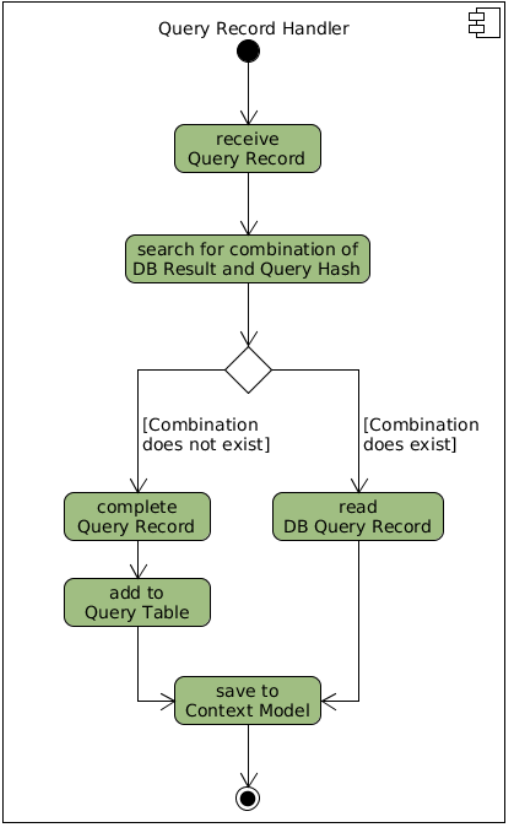
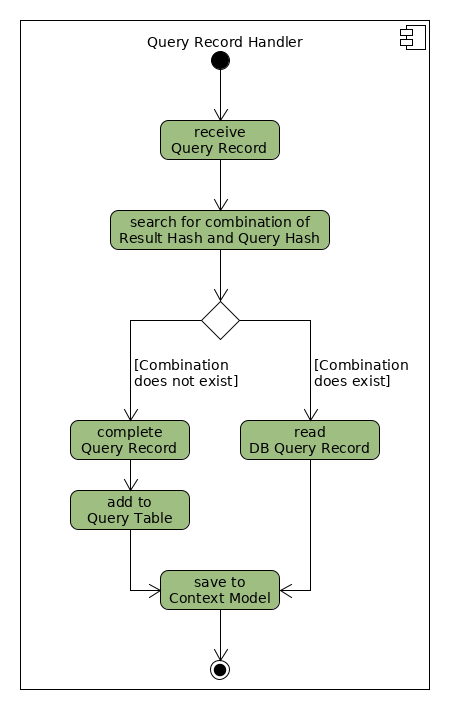
some adjustments

Changed region(s): [[0.0, 0.0, 1.0, 1.0], [0.1244, 0.4338, 0.5289, 0.8366]]

diff --git a/latex/example.tex b/latex/example.tex
@@ -750,13 +750,13 @@ Figure \ref{fig:impldataid} shows an overview of the data identification solutio
 	\caption{Overview of the proposed data identification workflow at the EODC back end}
 	\label{fig:impldataid} % \label has to be placed AFTER \caption (or \subcaption) to produce correct cross-references.
 \end{figure}
-\todo{find the umlet file of this and adapt it...}
+
 
 The Query Generation and Query Execution components of the EODC back end provide the input data of the Query Handler. The process graph is the raw input process graph received by the back end driver from the client application. The list of result files is the result of the query execution process and therefore the input data of the work-flow. The Query Execution component provides the execution time stamp additionally. The Query Handler consists of the following components:
 
  \begin{itemize}
-	\item \textbf{Process Graph Parser} \\
-	The Process Graph Parser takes the query as input and generates the necessary query data out of it. Since the process graph at this point also includes the processes and not only the filter operations, this step is necessary. The output consists of the original query, the unique/normalized query, the hash of the normalized query and the persisted data identifier of the query. This information is forwarded to the Query Record Handler. The mentioned resulting items are described more in detail in the section below.  
+	\item \textbf{Query Processor} \\
+	The Query Processor takes the query as input and generates the necessary query data out of it. Since the process graph at this point also includes the processes and not only the filter operations, this step is necessary. The output consists of the original query, the unique/normalized query, the hash of the normalized query and the persisted data identifier of the query. This information is forwarded to the Query Record Handler. The mentioned resulting items are described more in detail in the section below.  
 	\item \textbf{Data Handler} \\ 
 	The Data Handler is responsible for creating the result data dependent query information. The output is the hash over the file list result, the execution time stamp and additional meta data. In this case the Data Handler only calculates the number of files as meta-data output. Since EODC uses the OGC standard CSW\footnote{http://cite.opengeospatial.org/pub/cite/files/edu/cat/text/main.html} to query the data, the sorting of the resulting files is predefined. The order of the files has no impact on the processing and openEO users are not able to choose a specific sorting, therefore the predefined CSW sorting is used for the hash production. The results of the component is forwarded to the Query Record Handler.    
 	\item \textbf{Query Record Handler} \\
@@ -770,7 +770,7 @@ The Query Generation and Query Execution components of the EODC back end provide
 	\caption{Activity diagram of the Query Record Handler component.}
 	\label{fig:queryhandler_activity} % \label has to be placed AFTER \caption (or \subcaption) to produce correct cross-references.
 \end{figure}
-\todo{find the umlet file of this and adapt it...}
+
 \subsection{Query Table Structure}
 
 The Query Table stores the data related to the query instance, additional result and meta-data information. Table \ref{Tab:querytable} visualizes the Query Table structure. To illustrate the Query data record, example input values are used to explain how the single data entries are generated. Therefore, in Figure \ref{fig:processgraph_example} there is an example input process graph.   
@@ -780,7 +780,7 @@ The Query Table stores the data related to the query instance, additional result
 	\includegraphics[width=\textwidth]{dataid_example_processgraph}
 	\caption{Example Input process graph of the Query Handler component.}
 	\label{fig:processgraph_example} % \label has to be placed AFTER \caption (or \subcaption) to produce correct cross-references.
-\end{figure}
+\end{figure} \todo{adapt original Query}
 
 \begin{table}[]
 	\caption{Structure of the Query Table in the EODC meta database.}
@@ -802,17 +802,16 @@ The following list describes how the elements of the query data set record are c
 	\item \textbf{Query PID} \\
 	The Query PID gets generated by the python library uuid\footnote{https://docs.python.org/3/library/uuid.html}. The library is used to generate unique identifiers and used in the EODC back end for generating the job ids. In the EODC back end ids have in the beginning a code for the specific entity (e.g. "jb-UUID" for Job entities). That is why the id for a Query Table entry is structured like "qu-UUID". \\
 	\textit{Example: "qu-16fd2706-8baf-433b-82eb-8c7fada847da"}
-	\todo{change Q in code and in the document to lower case "qu"}
 	\item \textbf{Dataset PID} \\
 	The dataset PID is the identifier of the satellite in the process graph (e.g. the "product\_id" element). \\
 	\textit{Example: "s1a\_csar\_grdh\_iw"}	    	
 	\item\textbf{Original Query} \\
-	The original query is the input query of from the query execution component, which got executed by it.  \\ \todo{make it the original query in the code...}
+	The original query is the input query of from the query execution component, which got executed by it.  \\ 
 	\textit{Example: See the Original Query in Figure \ref{fig:processgraph_example}}	 
 	\item \textbf{Unique Query} \\
 	The unique query is the restructured query that is comparable to other unique queries. Since the order of the filters makes no difference in the outcome of the query execution, the elements of the original query are alphabetically sorted by the JSON keys to get the unique query. \\
 	\textit{Example: See the Unique Query in Figure \ref{fig:processgraph_example}}	  	 	
-	\item \textbf{Unique Query Hash} \\ \todo{remove CR and LF characters using python: str.translate() --> same for list}
+	\item \textbf{Unique Query Hash} \\ 
 	Newline and space characters are removed from the unique query string. The unique query hash is the output of the SHA-256 hash function (using the python module "hashlib") with the unique query as input.  \\
 	\textit{Example: "AE7EF888CDEDF8A9A371\dots"} 
 	\item \textbf{Result Hash} \\
@@ -830,65 +829,10 @@ The following list describes how the elements of the query data set record are c
 \todo{change after discussion with Andi...}
 The aim of the automated back end provenance computation is to implement a simple approach capturing changes on the back end. First the parts of EODC that have an influence on the back end functionality results are defined. In addition the implementation generates a back end version automatically, when changes happen at the back end. The proposed tool can be used by every OpenEO back end with a Linux system with some simple configuration changes. It is completely independent of an existing back end driver service. It is a separate tool that gets executed at the back end in the background. This section calls the tool implemented for the EODC back end \textit{BackendMonit}. 
 
-%\begin{figure}[h]
-%	\centering
-%	\includegraphics[width=\textwidth]{backendprov}
-%	\caption{Overview of BackendMonit inside of the EODC back end}
-%	\label{fig:backendprov} % \label has to be placed AFTER \caption (or \subcaption) to% produce correct cross-references.
-%\end{figure}
-\textit{BackendMonit} is a standalone tool that gets called periodically via the cron daemon (see \cite{crontab}) by the back end hosting machine. EODC uses python as default programming language on a Linux machine, therefore the capturing tool is written in python that relies on linux tools. It is implemented configurable via configuration file, so that other linux based back ends can use it to capture back end changes too. The back end provenance tool uses a command line interface (CLI) and reads the configuration file as an input argument. 
-The workflow of running \textit{BackendMonit} is as follows: 
-
-\begin{enumerate}
-	\item \textbf{Install Requirements} \\
-	\textit{BackendMonit} requires for the execution some linux packages. First the tool runs on Python 3.6, hence it has to be installed on the system. There are no additional python packages necessary for it. The version control system Git is a requirement on the back end, as every back end has its own GitHub repository, it will assumable be already installed. It needs the linux tools inotify and cron to be installed, which are installed by default in all debian based linux distributions and many others. 
-	
-	\item \textbf{Setup Configuration File} \\
-	To make \textit{BackendMonit} adaptable for other systems a configuration file is introduced to describe its behavior. The tool comes with a default configuration file, which the back end provider can adapt to their architecture. The config file specifies all paths to the tools described in the previous point. Additionally, configuration file needs the path to the GitHub Repository used for the local back end repository.      
-	     
-	\item \textbf{Starting Service} \\
-	After the configuration is done, \textit{BackendMonit} gets executed in daemon mode, where it starts inotify (see \cite{inotifywait}) to run in the background. To start the tool in daemon mode the "--init" parameter has to be set on execution. Inotify notifies \textit{BackendMonit}, if the repository of the back end has changed through a log file. It writes to a log file all writing operations on the repository folder.    
-	
-	\item \textbf{Start Cronjob} \\
-	Now that inotify is configured and started as a service, \textit{BackendMonit} has to check periodically if something changed on back end side. Therefore, the tool needs to be started every second adding the "--check" parameter. Every second it compares the current state of the back end with the current context model. If the context models has changed it adds a new back end version with additional meta-data to the back end provenance data record JSON file. 	 
-\end{enumerate}
-
-\textbf{Provenance Repository} \\
-The data record of the back end provenance is a single JSON file that consists of all versions of the back end and their meta-data described below. In Figure \ref{fig:backendprovcm} shows an example snipped of the provenance repository.
-
-\begin{figure}[h]
-	\centering
-	\includegraphics[width=\textwidth]{backend_env}
-	\caption{Example snipped of the provenance repository of the EODC back end.}
-	\label{fig:backendprovcm} % \label has to be placed AFTER \caption (or \subcaption) to produce correct cross-references.
-\end{figure}
-
-The following subsections explain how the, in Section \ref{Design:Back end provenance} defined, provenance data points are read from the system by \textit{BackendMonit}.  
+The following subsections explain how the, in Section \ref{Design:Back end provenance} defined, provenance data elements are read from the system from the GitHub repository.  
 
 \textbf{B1: GitHub Repository} \\
 To capture the GitHub repository, all folders that consists of GitHub repositories are added to the configuration file. In case of EODC there is only one Git repository involved. The path of the Git CLI installation directory is defined in the configuration file. The "git config" and "git log" call is used to parse the current repository url and the current commit id. The "git diff" and "git branch" returns the local differences and the currently checked out branch of the repositories. \textit{BackendMonit} writes the GitHub URL, the branch, the commit identifier and a hash of all local differences to the context model. If there are changes to the previous model, a new back end version is generated. To automatically keep track on changes, \textit{Inotify} (see \cite{inotify}) is used. It calls a command if any changes on the file system in a specific folders occur. The changes can be further specified by 12 different operations on the file system like \textit{IN\_DELETE}, \textit{IN\_ACCESS}. For the purpose of capturing changes in this implementation only write access on the folders triggers \textit{Inotify}. Below there is the command used to configure the \textit{Inotify} daemon. \\
- 
-\begin{lstlisting}[frame=single]
-inotifywait -d -e modify -e attrib -e moved_to -e create -e delete DIR 
-		    -o outfile.log
-\end{lstlisting}
-
-
-
-%\textbf{B2: Used Folders} \\
-%Used folders by the back end have to be specified in the configuration file, excluding temporary folders and files. The tool daemon will check these folders on changes and will update the context model if anything changed at this folders. The tool used for this is inotify (see \cite{inotify}), this tool can be used to call a command if any changes on the file system in specific folders occur. The changes can be further specified by 12 different operations on the filesystem like IN\_DELETE, IN\_ACCESS. For the purpose of capturing changes to the used folder only write access on the folders trigger inotify.
-
-%\begin{lstlisting}[frame=single]
-%inotifywait -d -e modify -e attrib -e moved_to -e create -e delete DIR 
-%			-o outfile.log
-%\end{lstlisting}
-
-%\textbf{B3: OS and packages} \\
-%The linux operating system the eodc back end runs on is a debian based\cite{debian} operating system therefore the operating system release information and the packages can be retrieved with the debian packaging system (dpkg \cite{dpkg}).
-
-%\begin{lstlisting}[frame=single]
-%dpkg --get-selections
-%\end{lstlisting}
 
 \textbf{B2: Core API Version} \\
 Back end developers manually update the OpenEO core API version of the EODC back end. Therefore, the data file containing this information is specified in the configuration file of \textit{BackendMonit}. 
